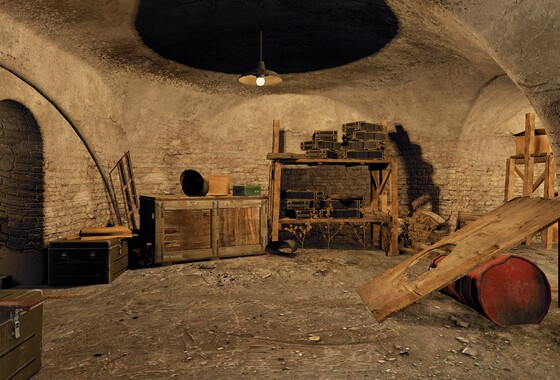
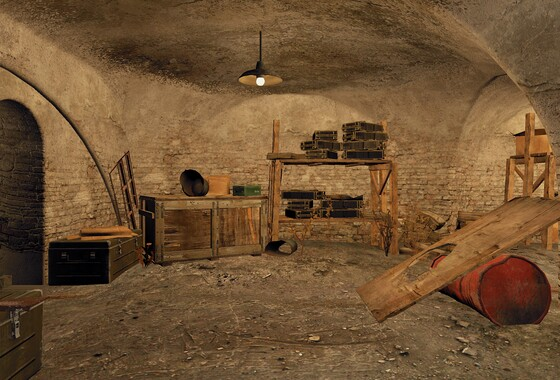
Lobby window: the Basement, Bunker and Hangar pictures from the current packs
bunker @8 (no shadows, dimmer), hangar @8 and the classic, captured again
with the sweep's `empty` at the same framing, 560 x 380 q90 JPEG. The Room
follows from camp @14.

diff --git a/srp-026g/docs/notes/lobby-scenes.md b/srp-026g/docs/notes/lobby-scenes.md
@@ -48,7 +48,7 @@ patch 81 (`client-patches/rust/patches/src/lobby_scene.rs`), the lobby movie's w
   srp the pick (`request_players_range(2 095 000 000 + id, 1)`, srp's `3B` at a reserved start,
   `lobby.md` 2.16) and closes the window; Esc and the button close it too. What it shows the exe
   tells it (`root.srp_lobby_state(pick, shown)`), at its first frame and at each change.
-  The pictures are the lobbies' stock views without anyone in them (camp @12, bunker @6,
+  The pictures are the lobbies' stock views without anyone in them (camp @12, bunker @8,
   hangar @8, the classic): 560 x 380, twice the card, JPEG at q90 as the game's map renders are
   (`flash/lobby_menu/bitmaps/SrpLobby*.jpg`, 255 KB the four), cut from 2560 x 1440 captures of the
   diagnostics sweep's `empty`.
